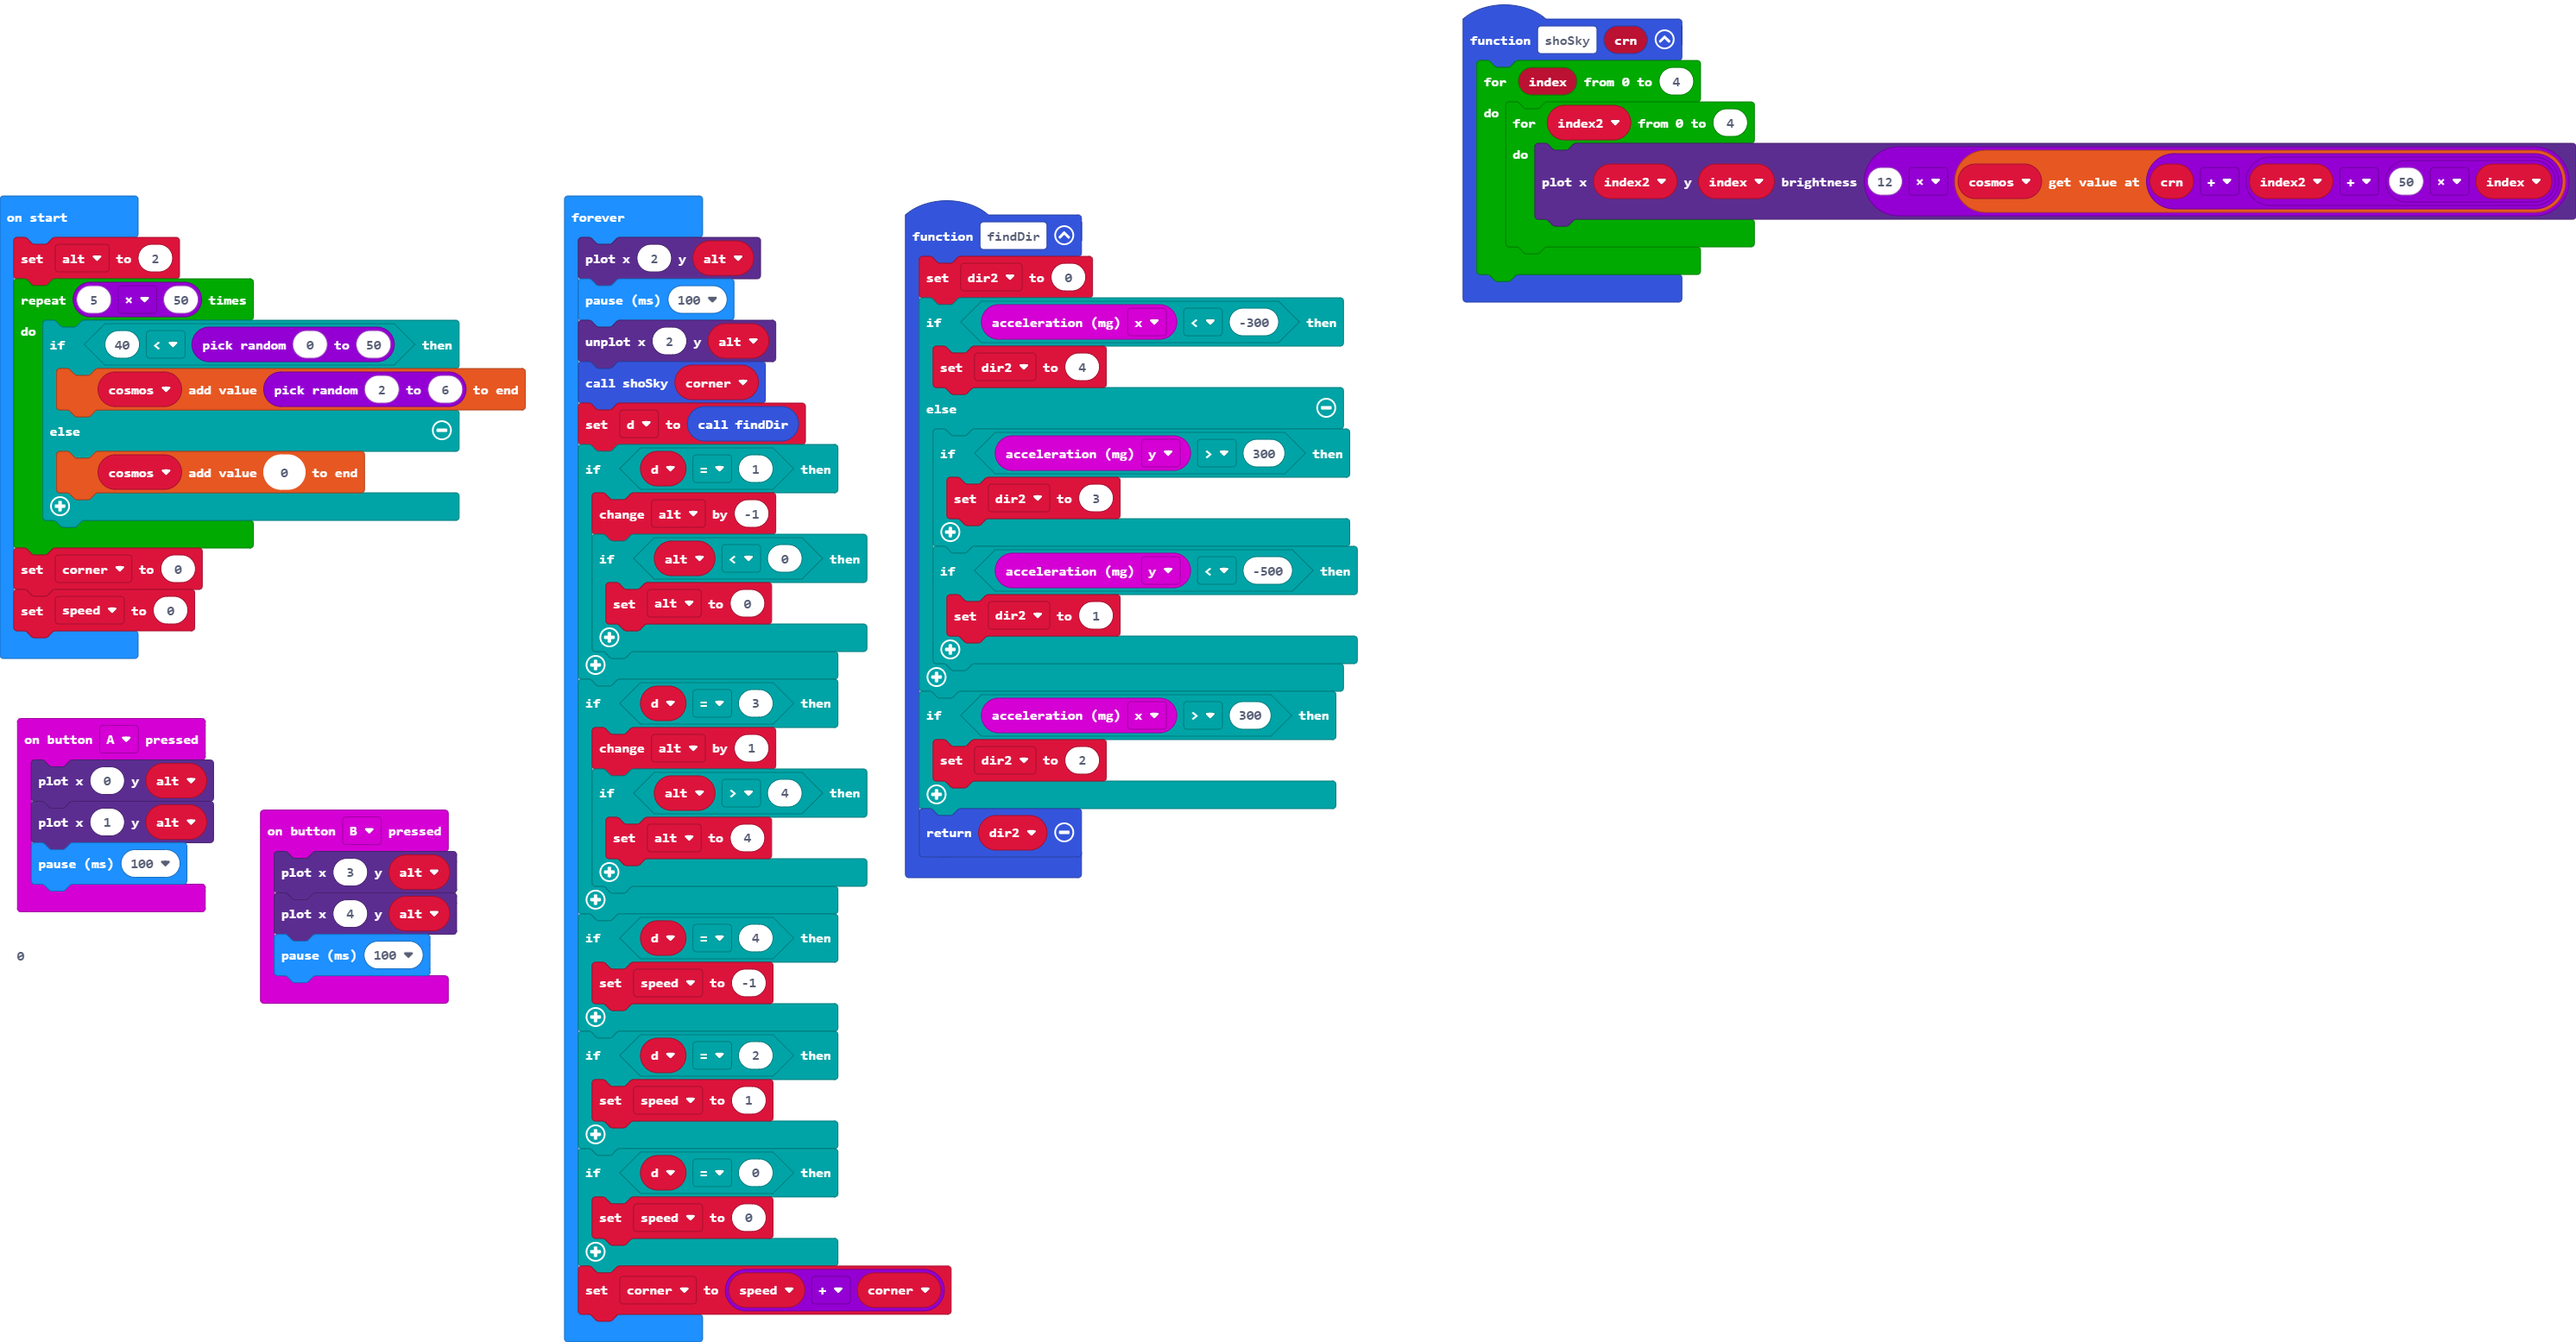
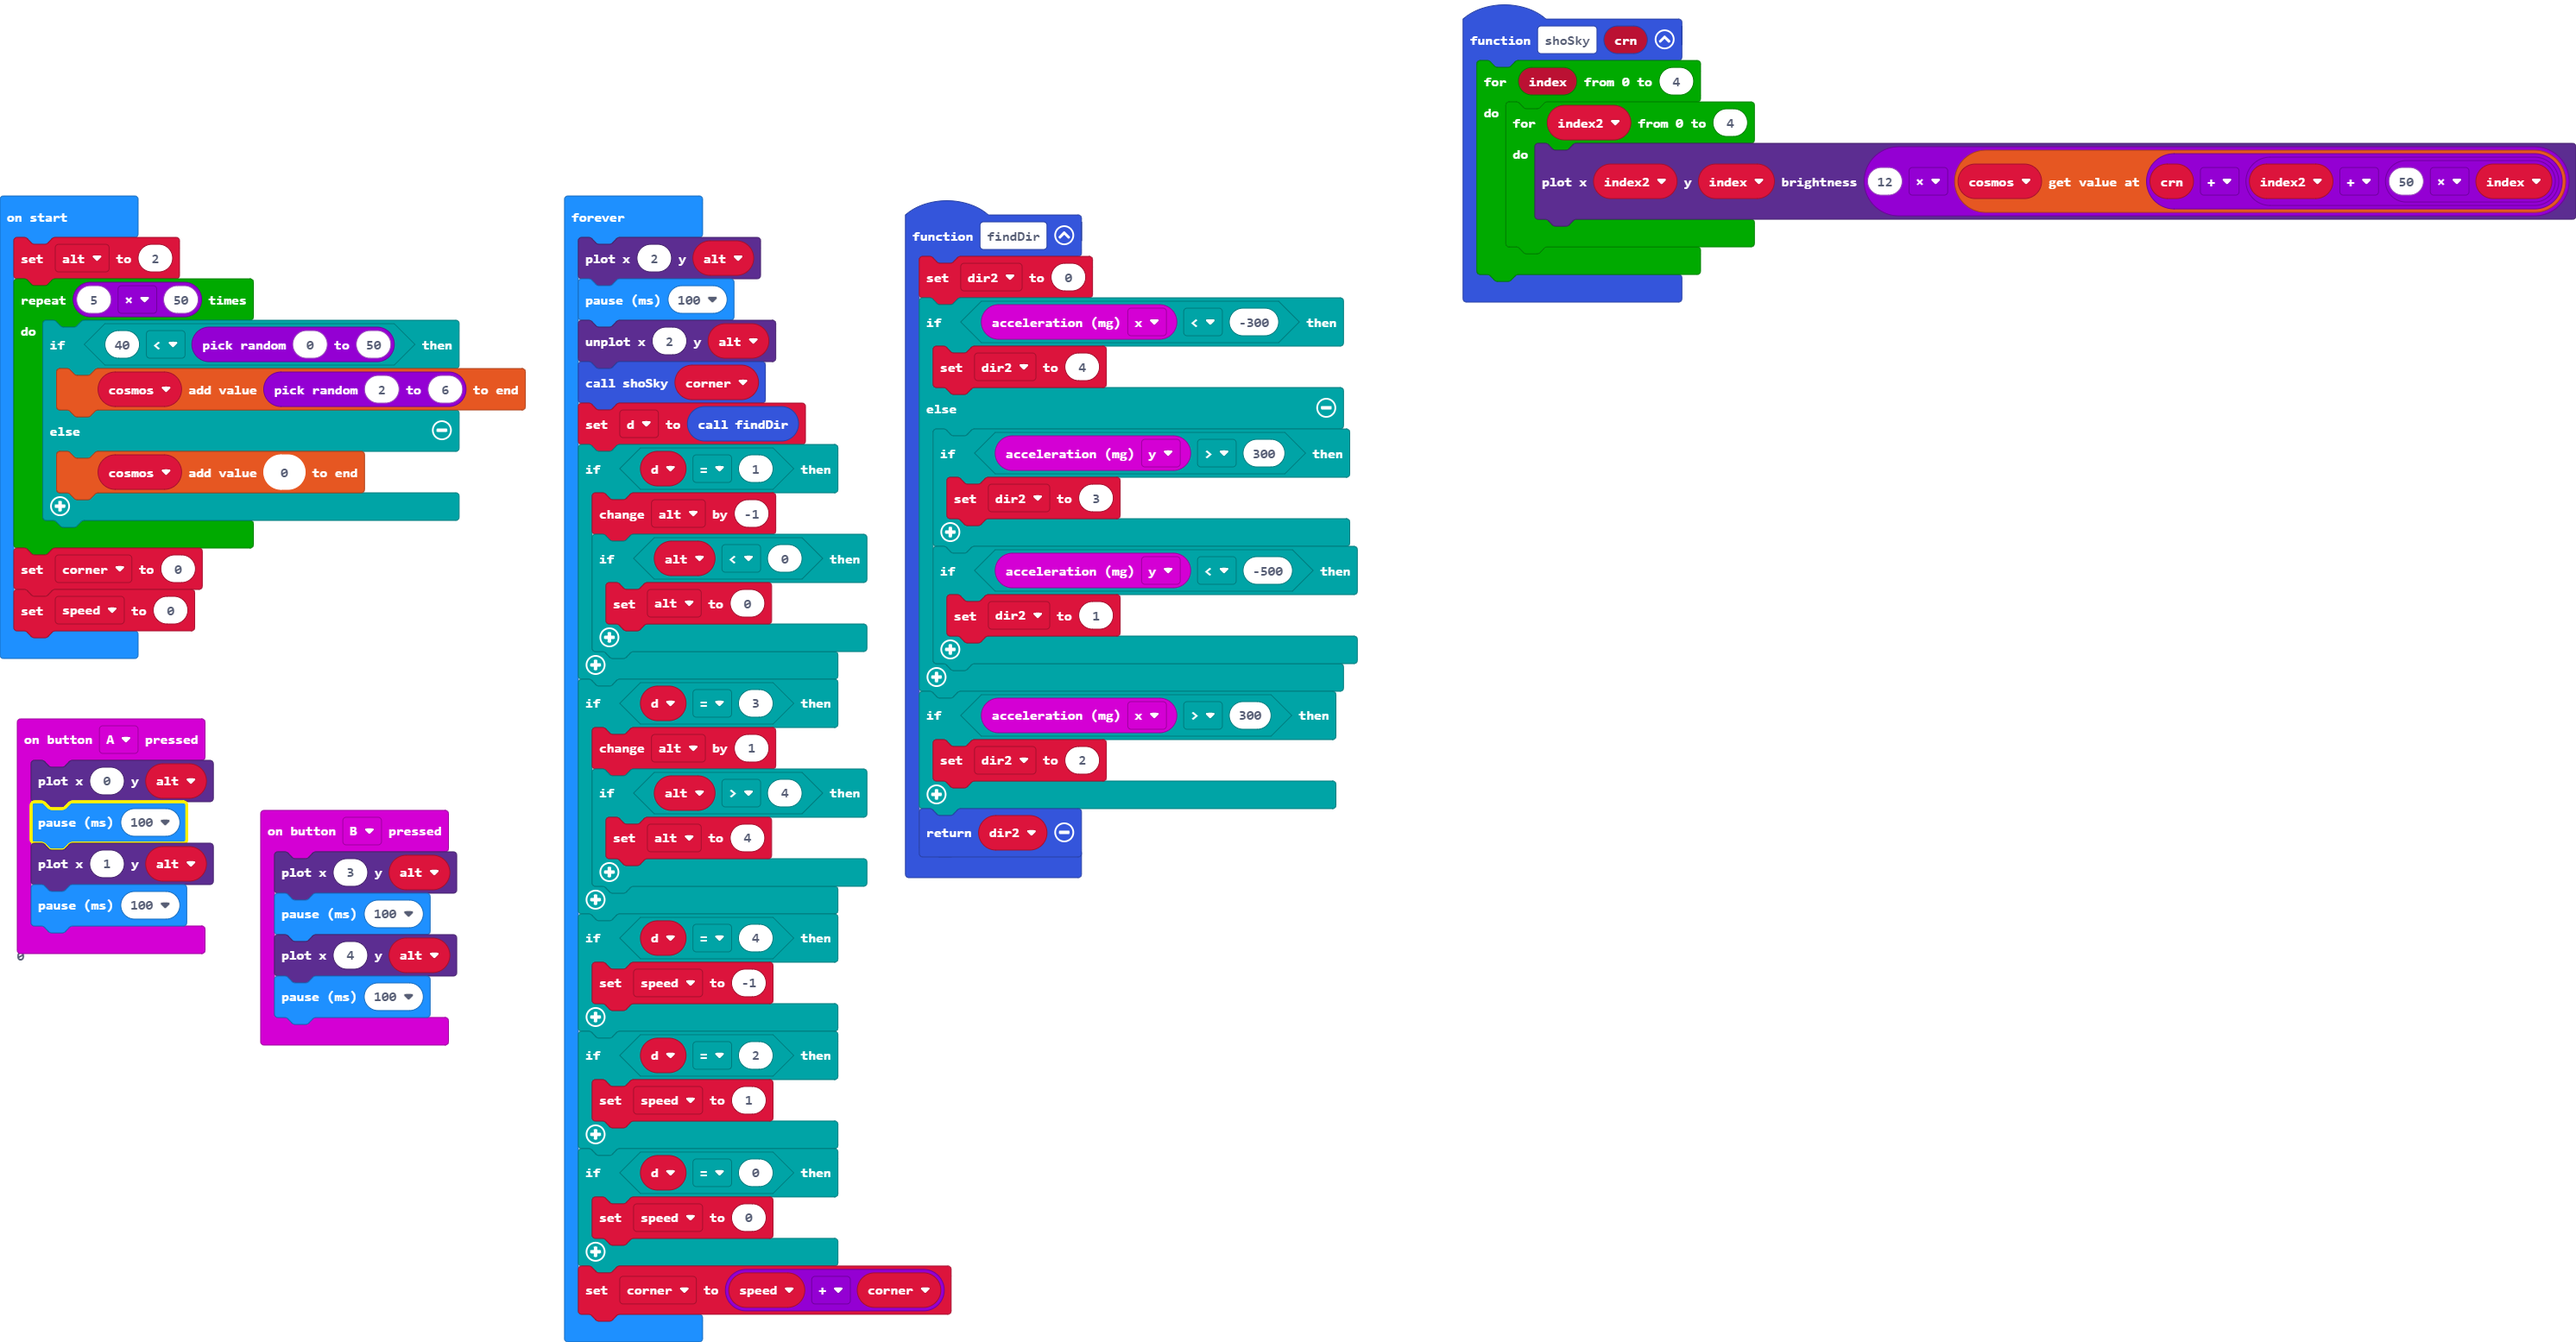
Update pxt.json, main.blocks, main.ts

Changed region(s): [[0.0, 0.5865, 0.187, 0.8026]]

diff --git a/main.ts b/main.ts
@@ -1,5 +1,6 @@
 input.onButtonPressed(Button.A, function () {
     led.plot(0, alt)
+    basic.pause(100)
     led.plot(1, alt)
     basic.pause(100)
 })
@@ -29,6 +30,7 @@ function findDir () {
 }
 input.onButtonPressed(Button.B, function () {
     led.plot(3, alt)
+    basic.pause(100)
     led.plot(4, alt)
     basic.pause(100)
 })
